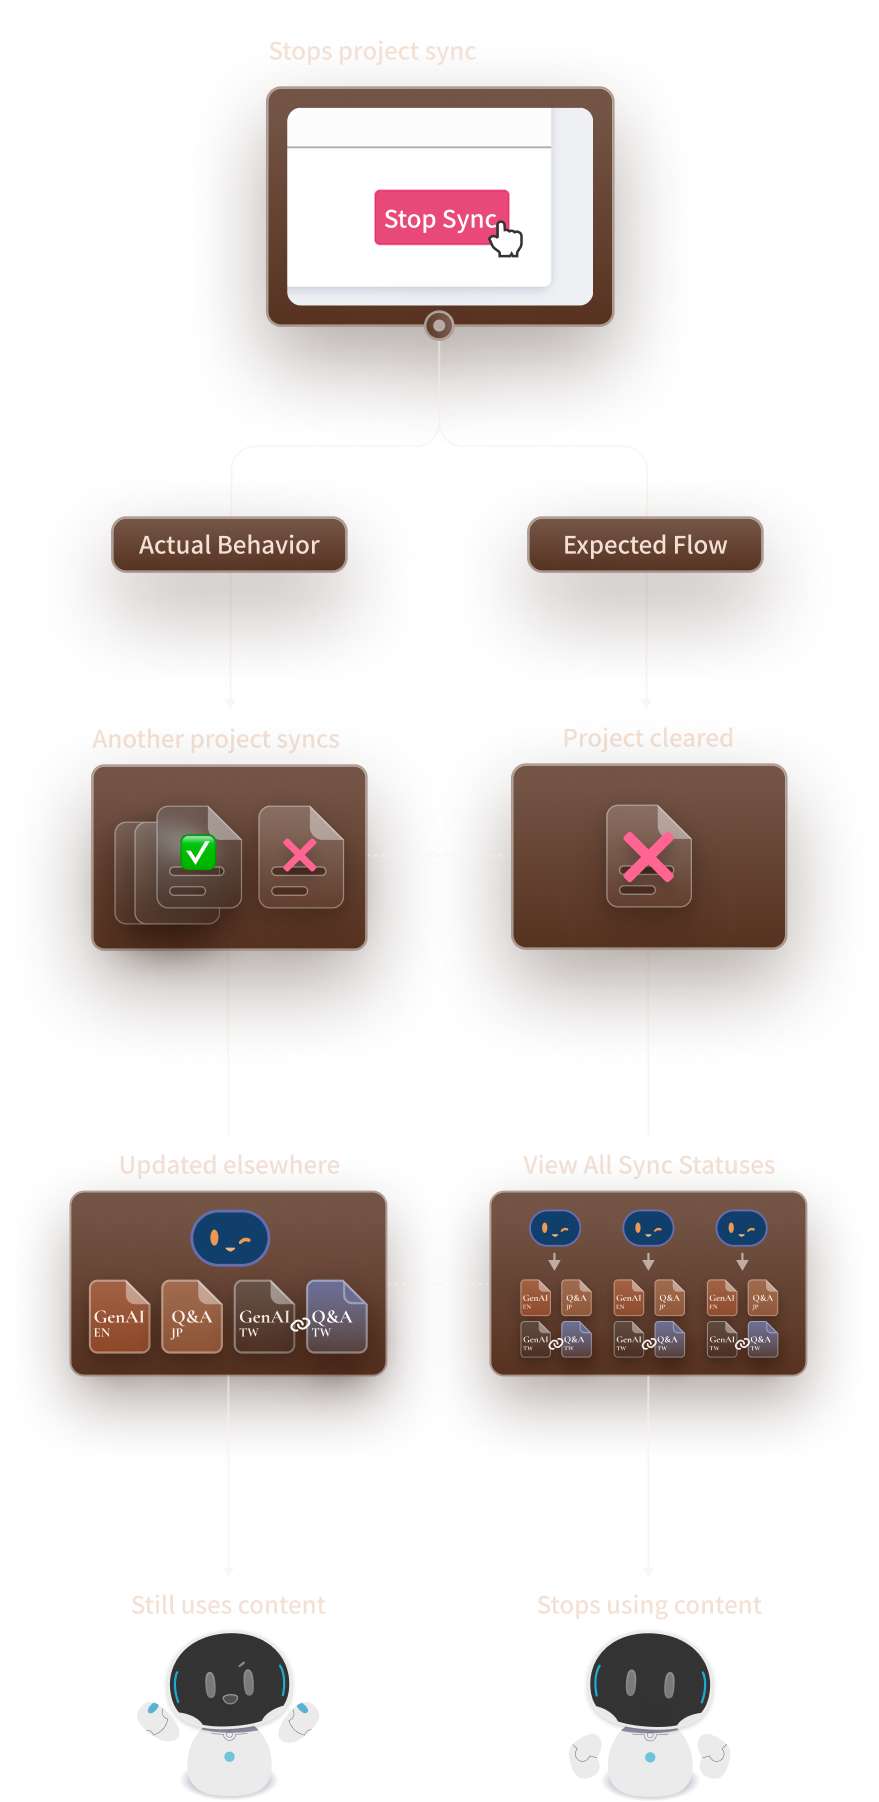
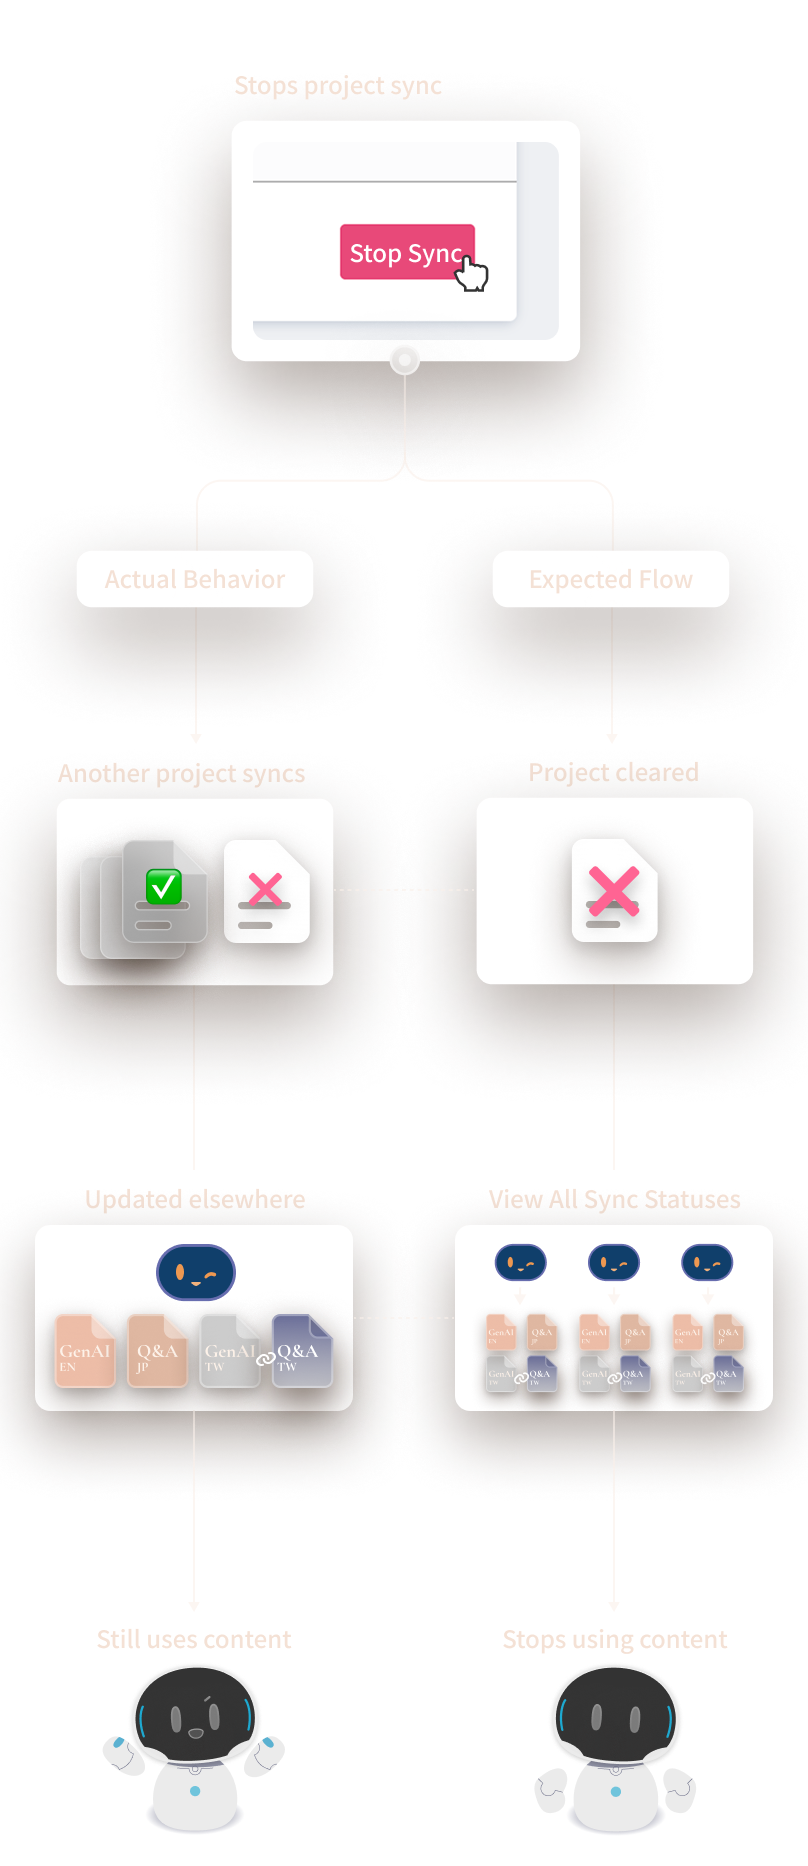
專案一內頁情境圖改名 scenario-comparison-* + 三層同步、換最新素材
- 實體檔：git mv 情境 4 檔 scenario-* → scenario-comparison-*（保留歷史），覆蓋最新素材
- i18n：case-sync.json 中英兩份 bgScenarioWeb/bgScenarioRwd 路徑同步更名
- HTML：§2 picture 寫死的 src/srcset fallback 同步更名，避免 JS 執行前 404
- 流程圖檔名不變、一併換上最新素材
- 四種組合（中/英 × web/rwd）皆驗證正常載入、無 404、置中無破圖

diff --git a/work-sync-management.html b/work-sync-management.html
@@ -69,8 +69,8 @@
       <p class="cs-body rv" data-k="bgP2"></p>
       <figure class="cs-figure cs-figure--bg rv">
         <picture>
-          <source media="(max-width: 760px)" data-srcset-k="bgScenarioRwd" srcset="/assets/case-diagrams/scenario-rwd-tw.png">
-          <img data-src-k="bgScenarioWeb" data-alt-k="bgScenarioAlt" src="/assets/case-diagrams/scenario-web-tw.png" alt="" loading="lazy">
+          <source media="(max-width: 760px)" data-srcset-k="bgScenarioRwd" srcset="/assets/case-diagrams/scenario-comparison-rwd-tw.png">
+          <img data-src-k="bgScenarioWeb" data-alt-k="bgScenarioAlt" src="/assets/case-diagrams/scenario-comparison-web-tw.png" alt="" loading="lazy">
         </picture>
       </figure>
       <p class="cs-body rv" data-k="bgP3"></p>
